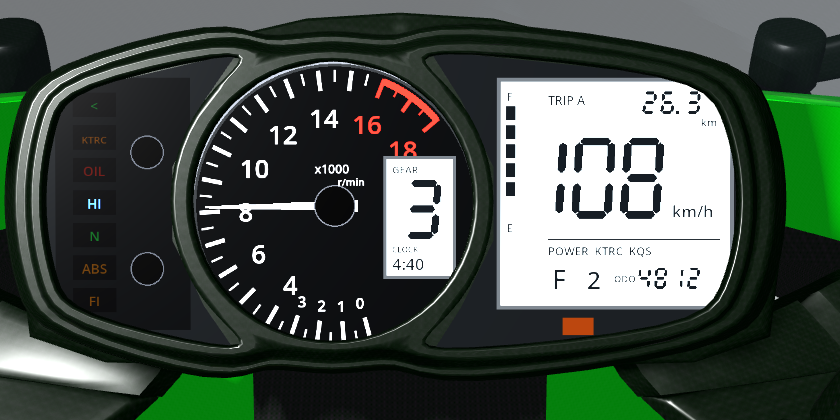
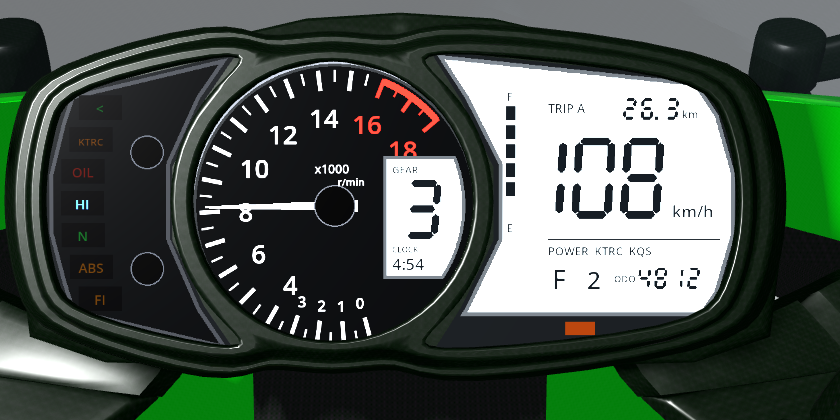
ZX-6R cluster: panels follow the curved openings of the dash housing
LCD window, warning-light panel and gear window are drawn to the projected outlines of the model's
dash faces (inset for an even bezel) instead of rectangles; light column follows the curved edge.

Claude-Session: https://claude.ai/code/session_01EnwvD6cbLiSNBY2oAfu9us

diff --git a/README.md b/README.md
@@ -85,7 +85,8 @@ and a live TFT dash is placed on the instrument face.
   column, the big analog tach (0-4k compressed along the bottom, red from 16k, silver needle), the
   GEAR/CLOCK window inside the dial, and the backlit LCD (7-segment speed with ghost segments, trip,
   odometer, fuel bar, mode line). An amber shift lamp flashes at the redline. It is drawn into a
-  texture and projected flat onto the model's own three dash faces, so it fills exactly the slots in
+  texture and projected flat onto the model's own three dash faces; the warning panel, LCD window and
+  gear window are drawn to the exact outlines of the openings, so they follow the curves of the slots in
   the cluster housing.
 - **ZX-6R:** the 4K PBR texture set was reduced to 2K/1K albedo + packed roughness/metal + normal maps
   (`assets/bikes/zx6r/tex/`); the green livery is the repaintable part.
